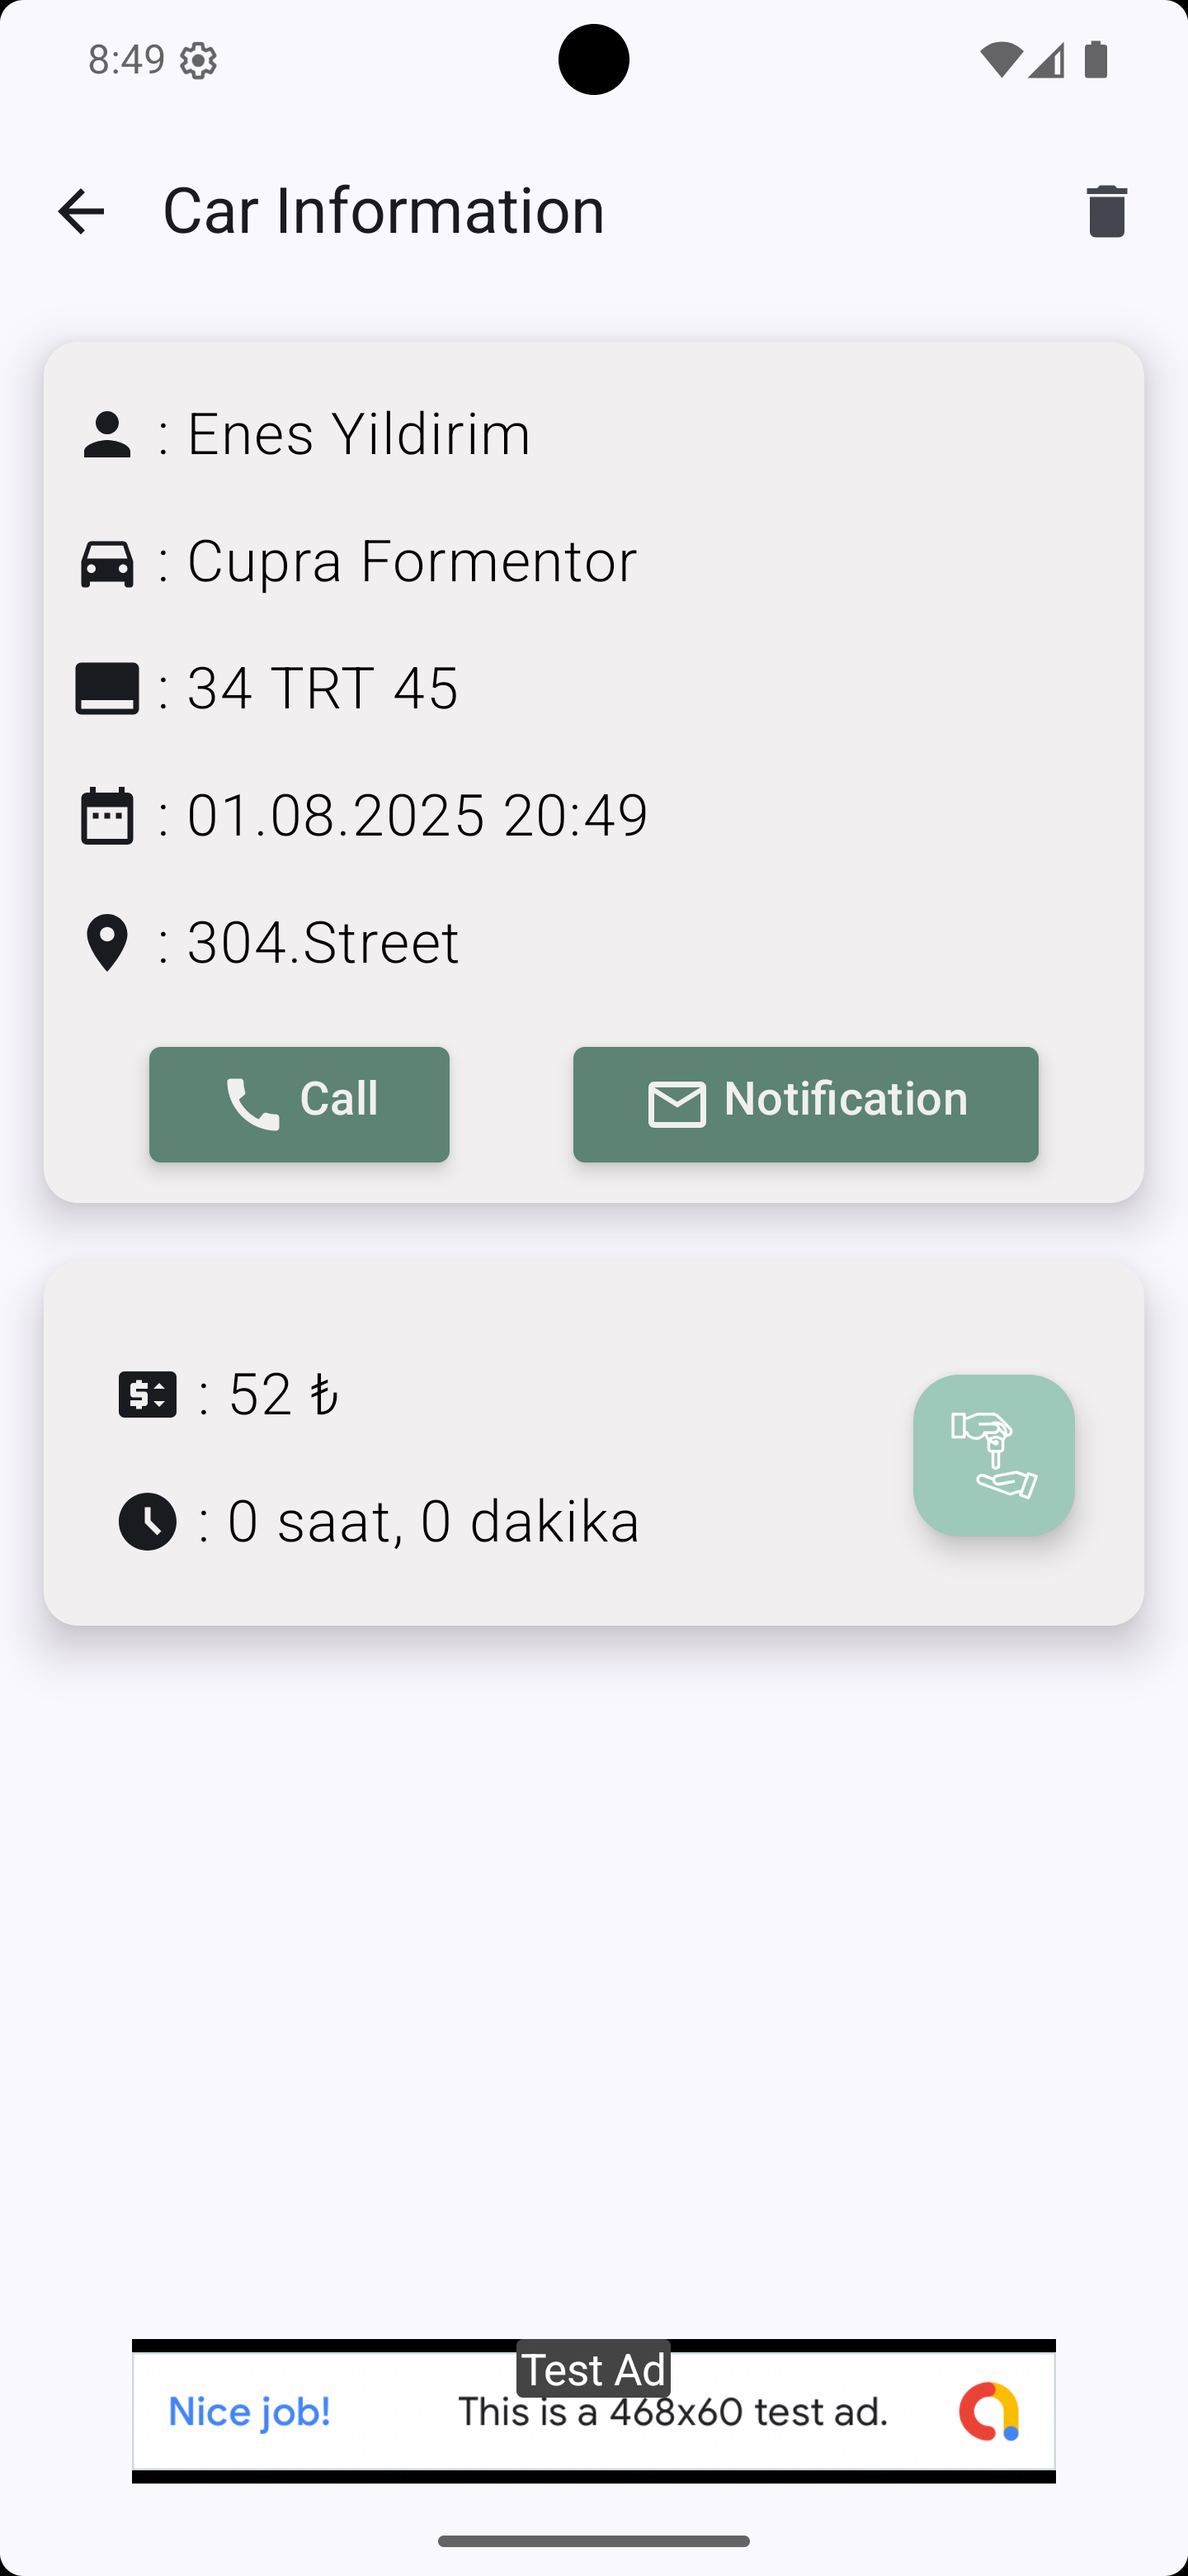
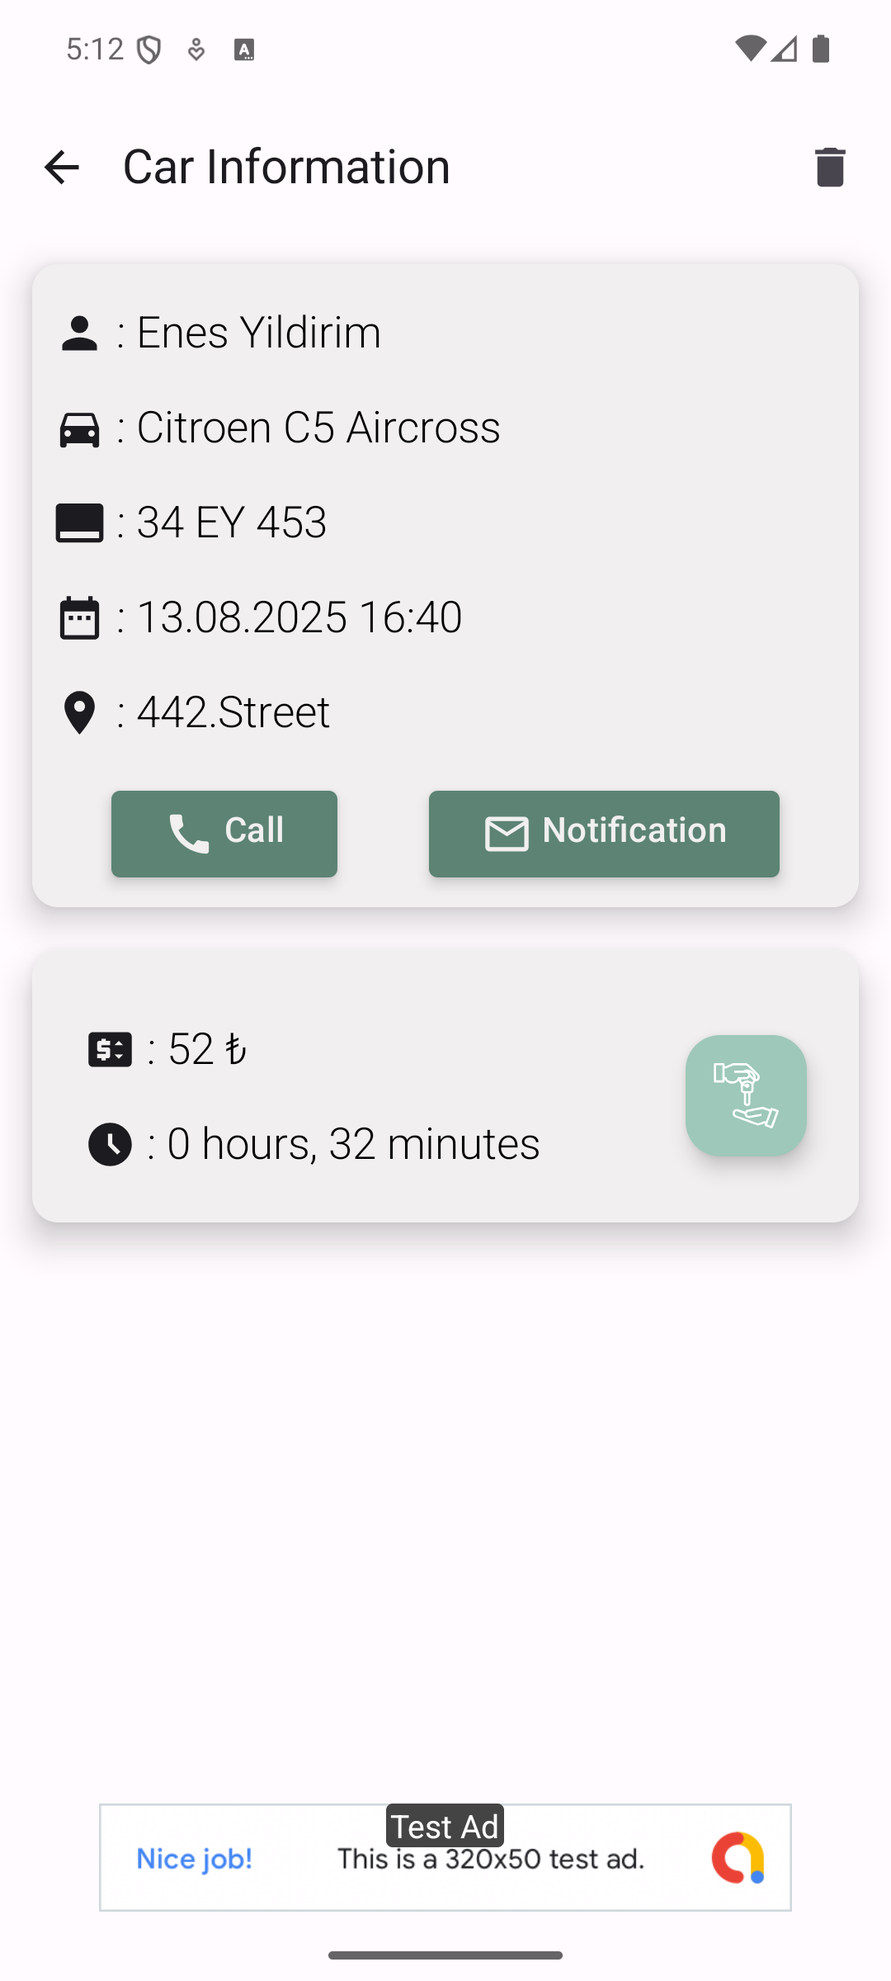
updated theme color and images

diff --git a/app/src/main/java/com/enons/vehicleapp/domain/useCase/CalculateTimeDifferenceUseCase.kt b/app/src/main/java/com/enons/vehicleapp/domain/useCase/CalculateTimeDifferenceUseCase.kt
@@ -1,10 +1,15 @@
 package com.enons.vehicleapp.domain.useCase
 
+import android.content.Context
+import com.enons.vehicleapp.R
+import dagger.hilt.android.qualifiers.ApplicationContext
 import java.text.SimpleDateFormat
 import java.util.Locale
 import javax.inject.Inject
 
-class CalculateTimeDifferenceUseCase @Inject constructor() {
+class CalculateTimeDifferenceUseCase @Inject constructor(
+    @ApplicationContext private val context: Context
+) {
     fun execute(
         startDateText: String,
         hourly1: String,
@@ -37,54 +42,59 @@ class CalculateTimeDifferenceUseCase @Inject constructor() {
             val elapsedMinutes = different / minutesInMilli
             different %= minutesInMilli
 
+            val resources = context.resources
+            val dayText = resources.getQuantityString(R.plurals.day, elapsedDays.toInt())
+            val hourText = resources.getQuantityString(R.plurals.hour, elapsedHours.toInt())
+            val minuteText = resources.getQuantityString(R.plurals.minute, elapsedMinutes.toInt())
+
             var totalAmount = 0
             var timeDifference = ""
             if (elapsedDays > 0) {
                 try {
                     totalAmount = (daily.toInt() * elapsedDays).toInt()
-                    timeDifference = "$elapsedDays gün, $elapsedHours saat"
+                    timeDifference = "$elapsedDays $dayText, $elapsedHours $hourText"
                 } catch (e: NumberFormatException) {
                     println("Invalid number format")
                 }
             } else if (elapsedHours >= 0 && elapsedHours < 1) {
                 try {
                     totalAmount = hourly1.toInt()
-                    timeDifference = "$elapsedHours saat, $elapsedMinutes dakika"
+                    timeDifference = "$elapsedHours $hourText, $elapsedMinutes $minuteText"
                 } catch (e: NumberFormatException) {
                     println("Invalid number format")
                 }
             } else if (elapsedHours >= 1 && elapsedHours < 2) {
                 try {
                     totalAmount = hourly2.toInt()
-                    timeDifference = "$elapsedHours saat, $elapsedMinutes dakika"
+                    timeDifference = "$elapsedHours $hourText, $elapsedMinutes $minuteText"
                 } catch (e: NumberFormatException) {
                     println("Invalid number format")
                 }
             } else if (elapsedHours >= 2 && elapsedHours < 4) {
                 try {
                     totalAmount = hourly3.toInt()
-                    timeDifference = "$elapsedHours saat, $elapsedMinutes dakika"
+                    timeDifference = "$elapsedHours $hourText, $elapsedMinutes $minuteText"
                 } catch (e: NumberFormatException) {
                     println("Invalid number format")
                 }
             } else if (elapsedHours >= 4 && elapsedHours < 8) {
                 try {
                     totalAmount = hourly4.toInt()
-                    timeDifference = "$elapsedHours saat, $elapsedMinutes dakika"
+                    timeDifference = "$elapsedHours $hourText, $elapsedMinutes $minuteText"
                 } catch (e: NumberFormatException) {
                     println("Invalid number format")
                 }
             } else if (elapsedHours >= 8 && elapsedHours < 12) {
                 try {
                     totalAmount = hourly5.toInt()
-                    timeDifference = "$elapsedHours saat, $elapsedMinutes dakika"
+                    timeDifference = "$elapsedHours $hourText, $elapsedMinutes $minuteText"
                 } catch (e: NumberFormatException) {
                     println("Invalid number format")
                 }
             } else if (elapsedHours >= 12 && elapsedHours < 24) {
                 try {
                     totalAmount = daily.toInt()
-                    timeDifference = "$elapsedHours saat, $elapsedMinutes dakika"
+                    timeDifference = "$elapsedHours $hourText, $elapsedMinutes $minuteText"
                 } catch (e: NumberFormatException) {
                     println("Invalid number format")
                 }

diff --git a/app/src/main/java/com/enons/vehicleapp/presentation/ui/theme/Theme.kt b/app/src/main/java/com/enons/vehicleapp/presentation/ui/theme/Theme.kt
@@ -10,6 +10,7 @@ import androidx.compose.material3.dynamicLightColorScheme
 import androidx.compose.material3.lightColorScheme
 import androidx.compose.runtime.Composable
 import androidx.compose.runtime.SideEffect
+import androidx.compose.ui.graphics.Color
 import androidx.compose.ui.graphics.toArgb
 import androidx.compose.ui.platform.LocalContext
 import androidx.compose.ui.platform.LocalView
@@ -18,30 +19,34 @@ import androidx.core.view.WindowCompat
 private val DarkColorScheme = darkColorScheme(
     primary = Purple40,
     secondary = PurpleGrey40,
-    tertiary = Pink40
+    tertiary = Pink40,
+    background = Color.White,
+    surface = Color.White,
+    onPrimary = Color.Black,
+    onSecondary = Color.Black,
+    onTertiary = Color.Black,
+    onBackground = Color.Black,
+    onSurface = Color.Black,
 )
 
 private val LightColorScheme = lightColorScheme(
     primary = Purple40,
     secondary = PurpleGrey40,
-    tertiary = Pink40
-
-    /* Other default colors to override
-    background = Color(0xFFFFFBFE),
-    surface = Color(0xFFFFFBFE),
-    onPrimary = Color.White,
-    onSecondary = Color.White,
-    onTertiary = Color.White,
-    onBackground = Color(0xFF1C1B1F),
-    onSurface = Color(0xFF1C1B1F),
-    */
+    tertiary = Pink40,
+    background = Color.White,
+    surface = Color.White,
+    onPrimary = Color.Black,
+    onSecondary = Color.Black,
+    onTertiary = Color.Black,
+    onBackground = Color.Black,
+    onSurface = Color.Black,
 )
 
 @Composable
 fun VehicleAppTheme(
-    darkTheme: Boolean = isSystemInDarkTheme(),
-    // Dynamic color is available on Android 12+
-    dynamicColor: Boolean = true,
+    darkTheme: Boolean = false,
+    // Dynamic color is disabled to keep a consistent white background
+    dynamicColor: Boolean = false,
     content: @Composable () -> Unit
 ) {
     val colorScheme = when {
@@ -49,7 +54,6 @@ fun VehicleAppTheme(
             val context = LocalContext.current
             if (darkTheme) dynamicDarkColorScheme(context) else dynamicLightColorScheme(context)
         }
-
         darkTheme -> DarkColorScheme
         else -> LightColorScheme
     }
@@ -59,7 +63,7 @@ fun VehicleAppTheme(
             val window = (view.context as Activity).window
             window.statusBarColor = colorScheme.background.toArgb()
             window.navigationBarColor = colorScheme.background.toArgb()
-            WindowCompat.getInsetsController(window, view).isAppearanceLightStatusBars = !darkTheme
+            WindowCompat.getInsetsController(window, view).isAppearanceLightStatusBars = true
         }
     }
 
